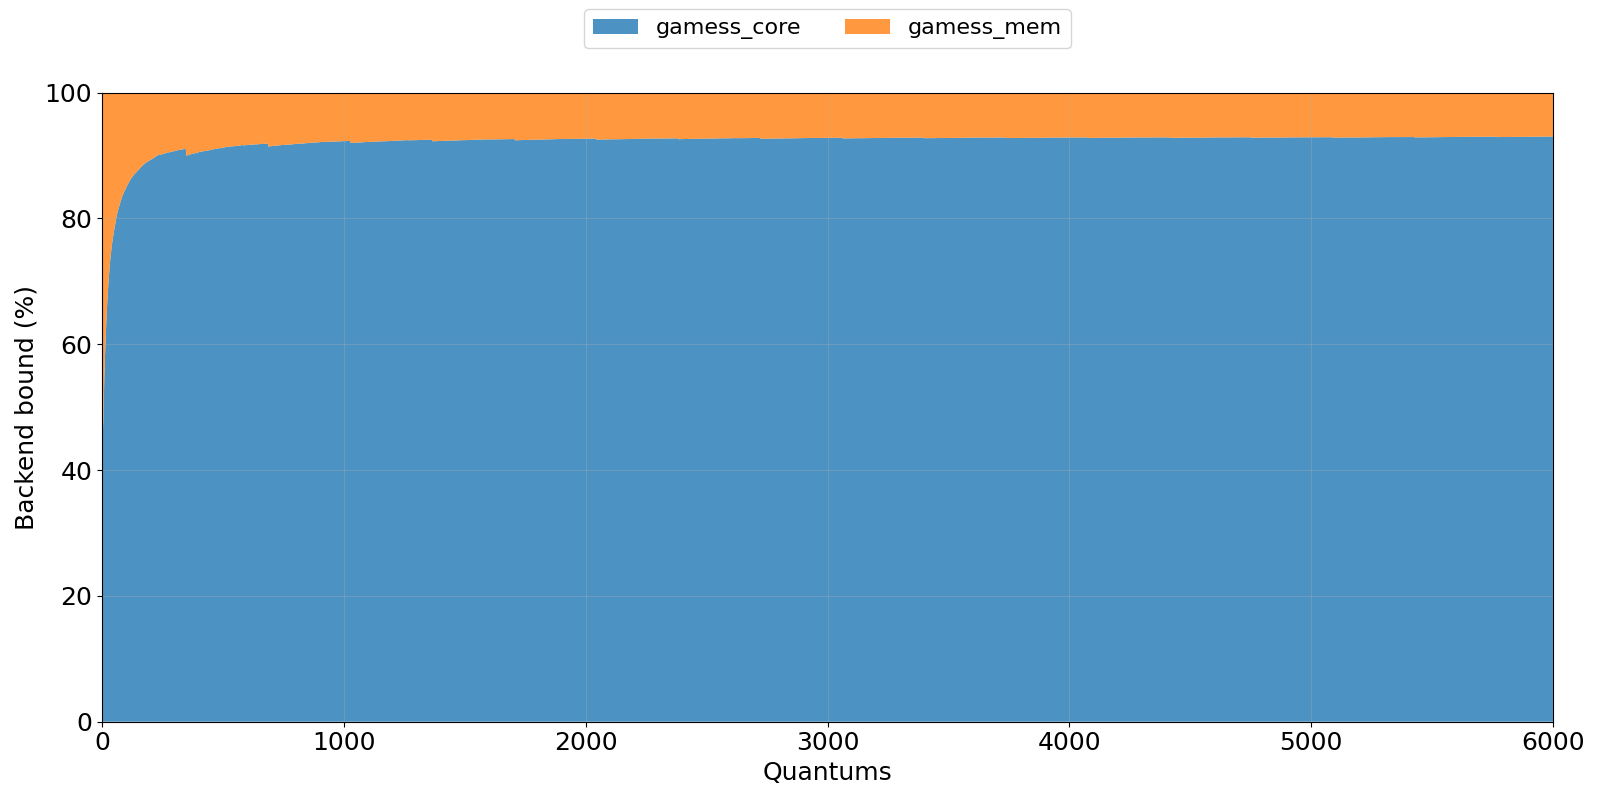
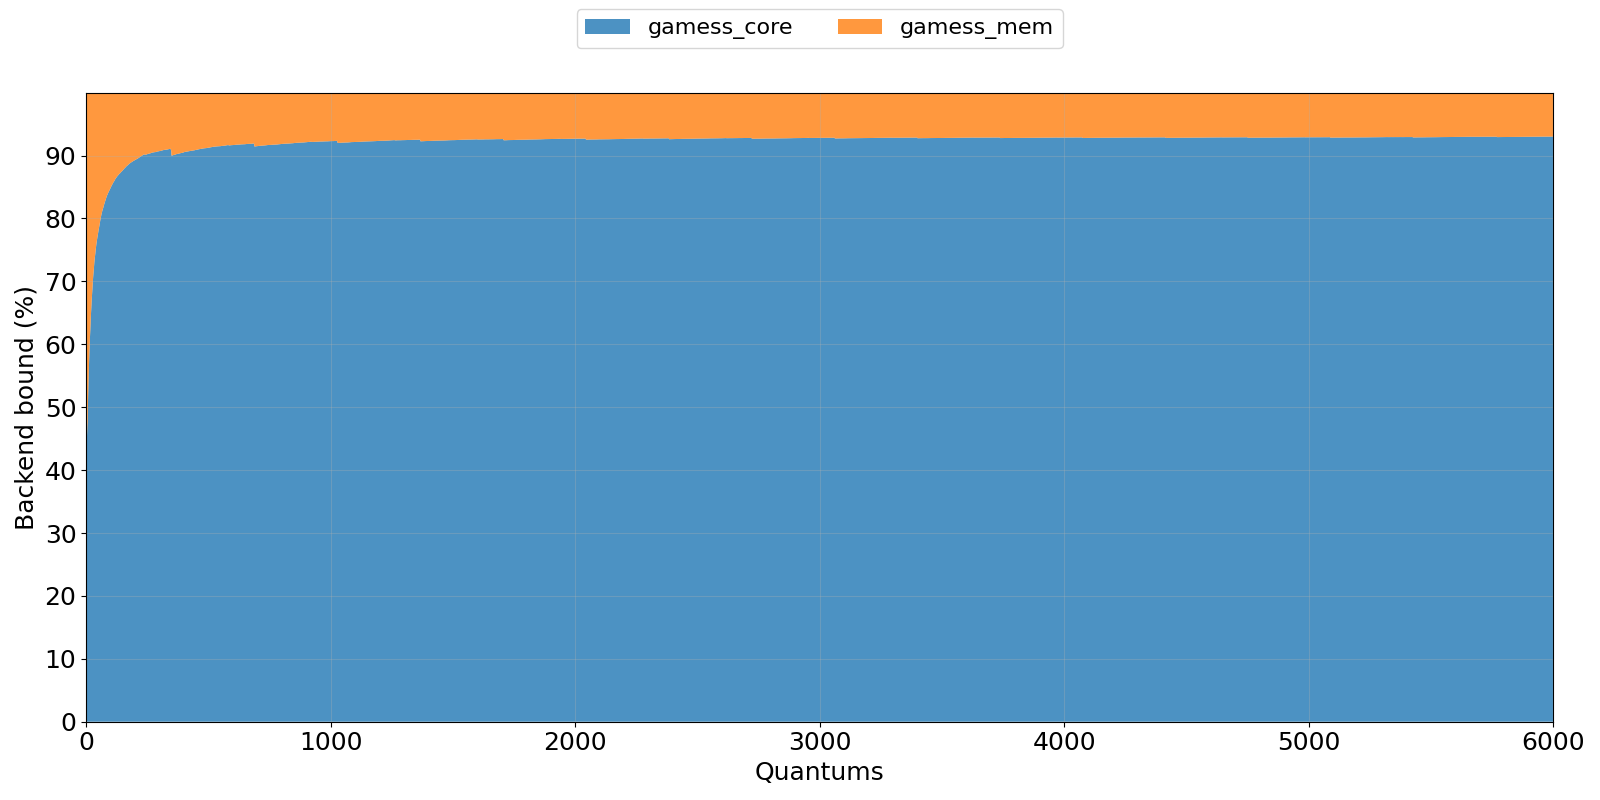
gráficas topdown 2

diff --git a/graficar_topdown.py b/graficar_topdown.py
@@ -67,7 +67,7 @@ def main():
                 plt.xlabel('Quantums', fontsize=18)
                 plt.ylabel('Backend bound (%)', fontsize=18)
                 plt.xticks(fontsize=18)
-                plt.yticks(fontsize=18)
+                plt.yticks(range(0, 100, 10), fontsize=18)
                 plt.grid(True, alpha=0.3)
                 plt.xlim(0, 6000)
                 plt.ylim(0, 100)
